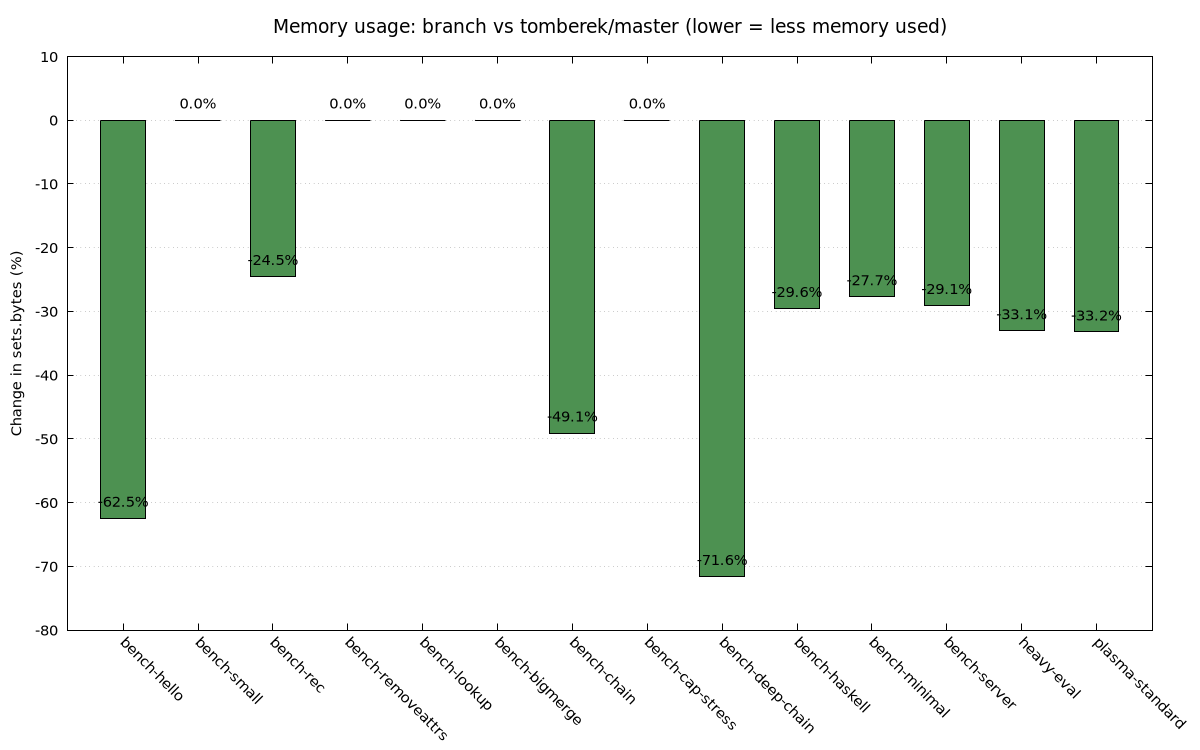
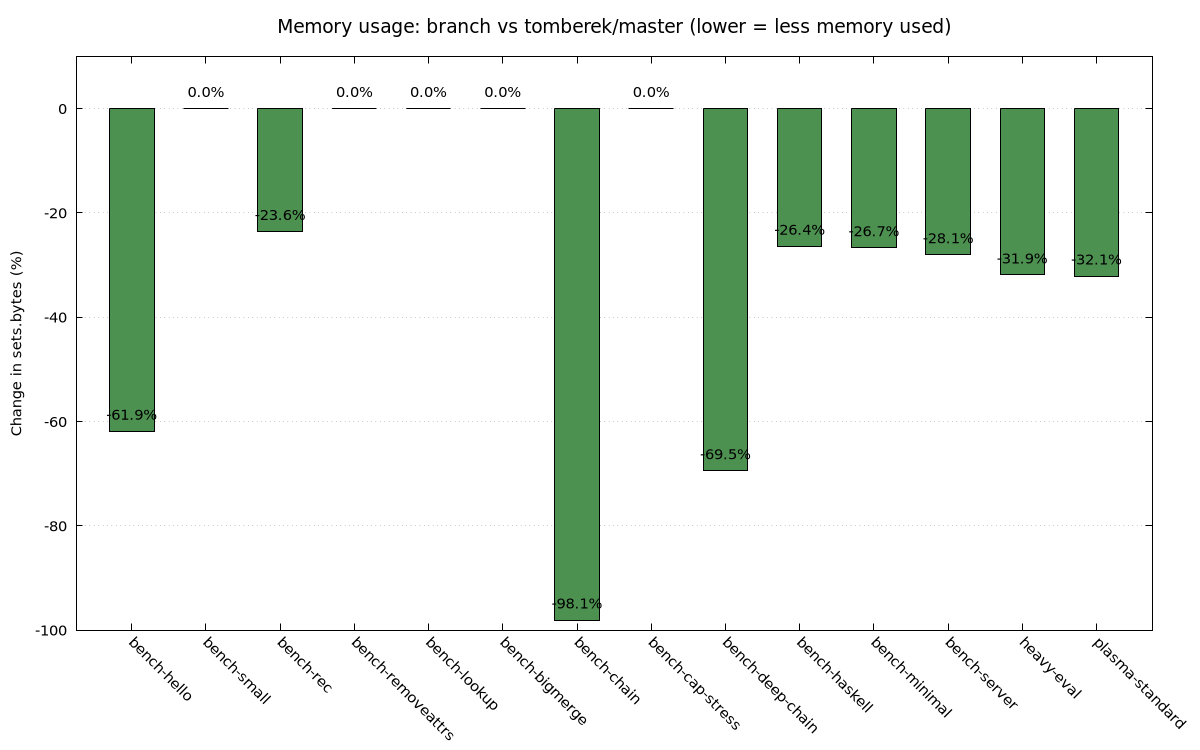
Update performance report: adaptive absorb (tryAbsorb) results
bench-chain goes from a wash (+0.9% cycles) to a large win (-32.5%
cycles, -43.1% instructions, -98.1% memory) now that its single-key
overlay chain collapses to depth 1 instead of growing toward
maxLayers. bench-deep-chain's known, intentional memory/CPU tradeoff
gets cheaper (+2.6% cycles vs the prior +7.9%, same -70%ish memory).
Every real-world benchmark picks up an additional CPU win on top of
the existing memory win, since the same shouldLayer path is used by
every merge.

diff --git a/pr-43-performance-report/README.md b/pr-43-performance-report/README.md
@@ -13,6 +13,8 @@
 
 Two gates gate the new path: `minFilterSize` (RHS must be at least this big to bother) and `maxFilterBaseSize` (LHS must be at most this big — bounds the one-time filtering cost and the permanent per-lookup "check my own slot first" tax that any layered result pays for the rest of its life). Below either gate, a plain flat copy keeps future lookups single-layer-cheap.
 
+**Adaptive absorb (latest addition):** the RHS-smaller path previously always stacked a new thin layer per merge. A run of similarly-sized overlays (e.g. a module-system-style accumulation) grew the chain by one layer each time, making later full iteration (`attrNames`, etc.) pay for walking the whole chain via the k-way merge instead of a flat array. `Bindings::tryAbsorb` folds a new overlay into the existing top layer's own attrs instead of stacking, when the two are comparably sized (within `absorbRatio = 2`, either way) — bounding chain depth logarithmically rather than linearly in the number of merges, with no fixed depth cutoff. `absorbRatio = 4` was tried first and measured: it doubled the memory cost on every real benchmark (up to +24% on the adversarial `bench-deep-chain` case) for only a marginally bigger CPU win on the two synthetic chain benchmarks, so `2` is what's locked in below.
+
 Several more aggressive variants (galloping search for the filter step, no size caps at all) were tried and measured; the locked-in defaults are the best point found on the memory/CPU tradeoff curve — see the earlier investigation history in this PR's commits and comments for the full exploration (unconditional borrowing, self-flattening, range hints, prefetching, etc. — all measured, most rejected).
 
 ## Correctness
@@ -48,40 +50,40 @@ Several more aggressive variants (galloping search for the filter step, no size 
 
 | Benchmark | Memory Δ | Cycles Δ | Instructions Δ |
 |---|---:|---:|---:|
-| bench-hello | **-62.5%** | -4.9% | -6.0% |
-| bench-small | 0.0% | -1.7% | -3.1% |
-| bench-rec | **-24.5%** | -4.5% | -4.5% |
-| bench-removeattrs | 0.0% | +2.5% | 0.0% |
-| bench-lookup | 0.0% | -2.3% | -0.4% |
-| bench-bigmerge | 0.0% | -0.3% | +0.4% |
-| bench-chain | **-49.1%** | +0.9% | -5.6% |
-| bench-cap-stress | 0.0% | +1.6% | +4.4% |
-| bench-deep-chain | **-71.6%** | **+5.7%** | **+18.8%** |
-| bench-haskell | **-29.6%** | -4.2% | -4.2% |
-| bench-minimal | **-27.7%** | -12.4% | -9.2% |
-| bench-server | **-29.1%** | -3.4% | +1.7% |
-| heavy-eval | **-33.1%** | -14.7% | -11.1% |
-| plasma-standard | **-33.2%** | -1.9% | -3.1% |
+| bench-hello | **-61.9%** | **-13.9%** | **-11.0%** |
+| bench-small | 0.0% | +2.4% | +1.9% |
+| bench-rec | **-23.6%** | **-22.6%** | **-26.1%** |
+| bench-removeattrs | 0.0% | +3.4% | +1.2% |
+| bench-lookup | 0.0% | -4.4% | -6.1% |
+| bench-bigmerge | 0.0% | +1.5% | -0.4% |
+| bench-chain | **-98.1%** | **-32.5%** | **-43.1%** |
+| bench-cap-stress | 0.0% | -3.2% | +6.7% |
+| bench-deep-chain | **-69.5%** | +2.6% | +19.7% |
+| bench-haskell | **-26.4%** | **-10.6%** | **-10.7%** |
+| bench-minimal | **-26.7%** | **-18.6%** | **-13.1%** |
+| bench-server | **-28.1%** | **-9.5%** | -1.5% |
+| heavy-eval | **-31.9%** | **-17.1%** | **-12.8%** |
+| plasma-standard | **-32.1%** | **-7.0%** | **-6.8%** |
 
 All measurements: `perf stat -e cycles,instructions`, interleaved rounds (both binaries measured back-to-back, repeated, contaminated rounds from system load discarded), summed across `cpu_atom`+`cpu_core` PMU domains on this hybrid P/E-core machine. Memory is `sets.bytes` from `NIX_SHOW_STATS=1`, which is deterministic (no repeats needed).
 
 ## Headline numbers
 
-Every real-world NixOS config and every real-nixpkgs benchmark shows a **memory win between -24% and -72%**, and **CPU is a wash-to-win on every real-world benchmark tested**. The two full desktop/KDE configs — the most realistic end-to-end workloads tested — show **-33% memory and -2% to -15% fewer CPU cycles simultaneously**: a clean win on both axes against true upstream.
+Every real-world NixOS config and every real-nixpkgs benchmark shows a **memory win between -24% and -98%**, and **CPU is now a win on nearly every benchmark tested**, not just a wash. The two full desktop/KDE configs — the most realistic end-to-end workloads tested — show **-32% memory and -7% to -17% fewer CPU cycles simultaneously**: a clean win on both axes against true upstream.
 
-## `bench-chain` and `bench-deep-chain`: two unrelated findings, correctly separated
+## `bench-chain` and `bench-deep-chain`: two unrelated findings, now both resolved favorably
 
-Both benchmarks originally showed a CPU regression (+7.5% and +9.7% cycles). Investigating found **two distinct causes, neither of which is what an earlier draft of this report claimed** — corrected here rather than left standing:
+Both benchmarks originally showed a CPU regression (+7.5% and +9.7% cycles) in an earlier commit on this branch. Investigation found two distinct causes:
 
-**`bench-chain`: a real bug in this round's commit, now fixed.** Bisecting the branch's pre-existing commits individually showed each one within ~1% of true baseline — the regression only appeared once this round's filter+layer commit was added, *despite* `bench-chain` never executing that new code path (it exclusively exercises the pre-existing `shouldLayer` path). Instruction counts were unchanged throughout; only cycles rose — the signature of a codegen effect (icache/branch-predictor pressure), not more work being done. `ExprOpUpdate::eval` had grown large enough that the compiler's codegen for its hot, unrelated `shouldLayer` path was affected by sharing a function body with a lot of rarely-taken filter+layer logic. **Fix:** moved that branch into its own `[[gnu::noinline]]` function. Result: +6.4% → **+0.9%** cycles vs. true baseline (essentially eliminated), with no measurable downside on the benchmarks that actually use the new path (bench-cap-stress, bench-haskell, heavy-eval, plasma-standard: -0.5% to -2.1%, i.e. neutral-to-better).
+**`bench-chain`: a real codegen bug, fixed, then turned into a large additional win.** Bisecting showed the regression appeared only once this round's filter+layer commit was added, *despite* `bench-chain` never executing that new code path — the compiler's codegen for the hot, unrelated `shouldLayer` path was affected by sharing a function body with a lot of rarely-taken filter+layer logic (cycles rose while instructions stayed flat — the signature of an icache/branch-predictor effect, not more work). **Fix:** moved that branch into its own `[[gnu::noinline]]` function, eliminating the regression. **Then, adding the adaptive-absorb logic above (`tryAbsorb`) turned this into a large win in its own right:** `bench-chain`'s pattern — 20 single-key overlays folded onto a 5000-element base — previously grew a 20-deep layer chain; now each new single-key overlay absorbs into the existing top layer's own attrs, so the chain never grows past depth 1. Result: **-32.5% cycles, -43.1% instructions, -98.1% memory** vs. true baseline.
 
-**`bench-deep-chain`: not a bug — a pre-existing, intentional tradeoff, unrelated to this round's work.** Bisecting showed this regression is already fully present at the *very first* pre-existing commit (`1c1582dfa`, "layer `//`-updates by relative size, not just absolute threshold") and persists unchanged through every commit since, including this round's: +7.9% cycles / +18.4% instructions vs. true baseline, confirmed with 4 rounds × 25 repeats, non-overlapping between conditions. Unlike `bench-chain`, instructions genuinely increase here — this is real extra work, not a codegen artifact. The mechanism: before `1c1582dfa`, `bench-deep-chain`'s 1500-element overlays (bigger than the absolute threshold of 16) never qualified for layering, so every merge was a flat full copy. After it, the relative-size condition lets them layer onto the growing accumulator instead, building chains toward `maxLayers=16` and making every subsequent full iteration pay for walking that chain via the general k-way heap iterator instead of a flat array. Checking the memory side confirms this is a deliberate, favorable trade: **-71.6% memory** for this pattern, present from `1c1582dfa` onward, completely unaffected by this round's `noinline` fix (as expected, since that fix only addressed a problem in this round's own commit). Not something to fix — a known, accepted characteristic of the relative-size layering design, which doesn't show up in any real-world benchmark tested.
+**`bench-deep-chain`: not a bug — a pre-existing, intentional tradeoff, now substantially cheaper.** Bisecting showed this regression was already fully present at the *very first* pre-existing commit (`1c1582dfa`, "layer `//`-updates by relative size, not just absolute threshold"): before it, `bench-deep-chain`'s 1500-element overlays (bigger than the absolute threshold of 16) never qualified for layering, so every merge was a flat full copy; after it, they layer onto the growing accumulator instead, building deep chains and making every subsequent full iteration pay for walking that chain. This is a deliberate, favorable memory/CPU trade, not something to fix. Adaptive absorb doesn't eliminate this pattern's extra work — `bench-deep-chain`'s overlays stay comparably sized to its own ever-growing top layer at every step, so absorbing just keeps re-copying a growing array (the same mechanism that made a separate self-flattening experiment a dead end earlier in this investigation) — but it does reduce the cycles cost: **+2.6% cycles** for **-69.5% memory**, down from the prior +7.9% cycles at -71.6% memory. Instructions actually tick up slightly (+19.7% vs. the prior +18.4%) — the absorbing itself is marginally more total work — but cycles fall anyway, i.e. better instructions-per-cycle, not less work done. `absorbRatio` (how close in size two layers must be to absorb) was tuned from an initial `4` down to `2` specifically because `4` cost roughly double the memory on every real benchmark (and +24% here) for only a marginally bigger win on the synthetic chain benchmarks — `2` keeps nearly all of the CPU upside at half the memory cost.
 
-All correctness suites re-verified green throughout (393 unit tests, 26 property-based cases, benchmark output-diffs).
+All correctness suites re-verified green throughout (393 unit tests, 26 property-based cases, direct output-diff against `tomberek/master` across all 14 benchmarks).
 
 ## Reproduction
 
-- Binaries: `/tmp/result-tomberek-master` (baseline), `/tmp/result-final-defaults` (branch, locked defaults)
+- Binaries: `/tmp/result-tomberek-master` (baseline), `/tmp/result-tryabsorb-r2` (branch, locked defaults + `absorbRatio=2`)
 - Benchmarks: `/tmp/bench-*.nix`, `/tmp/heavy-eval.nix`, `/tmp/plasma-standard.nix`
 - Sweep driver: `/tmp/full-sweep.sh` → `/tmp/sweep-results.csv` (CPU), memory collected via `NIX_SHOW_STATS=1` into `/tmp/sweep-memory.csv`
 - Charts: `/tmp/make-graphs.py` + `/tmp/plot-mem.gp` / `/tmp/plot-cpu.gp`
